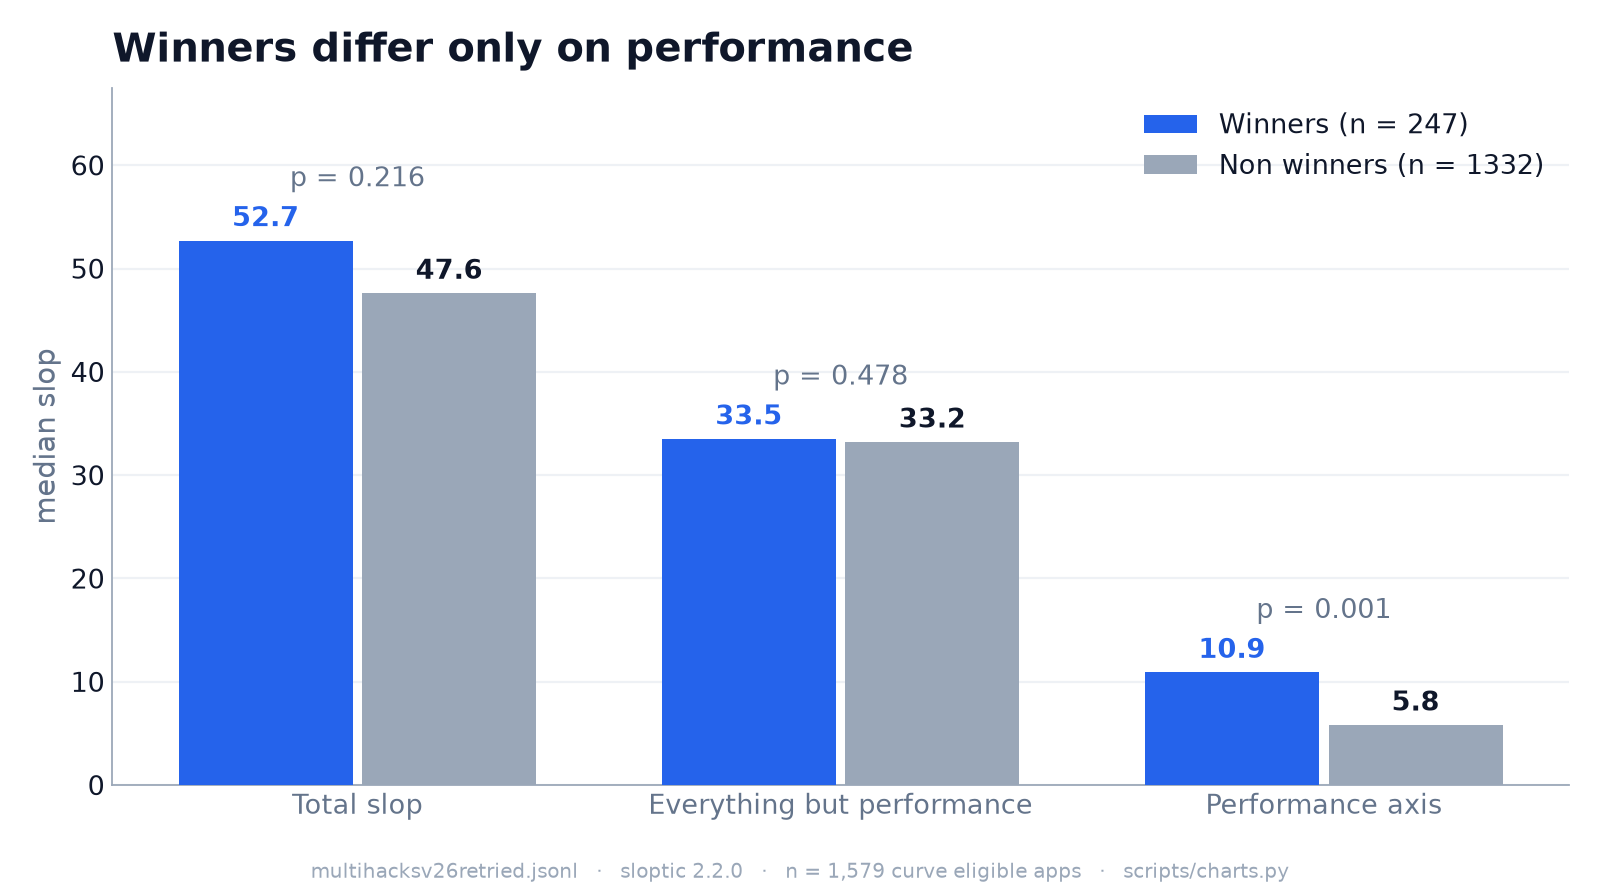
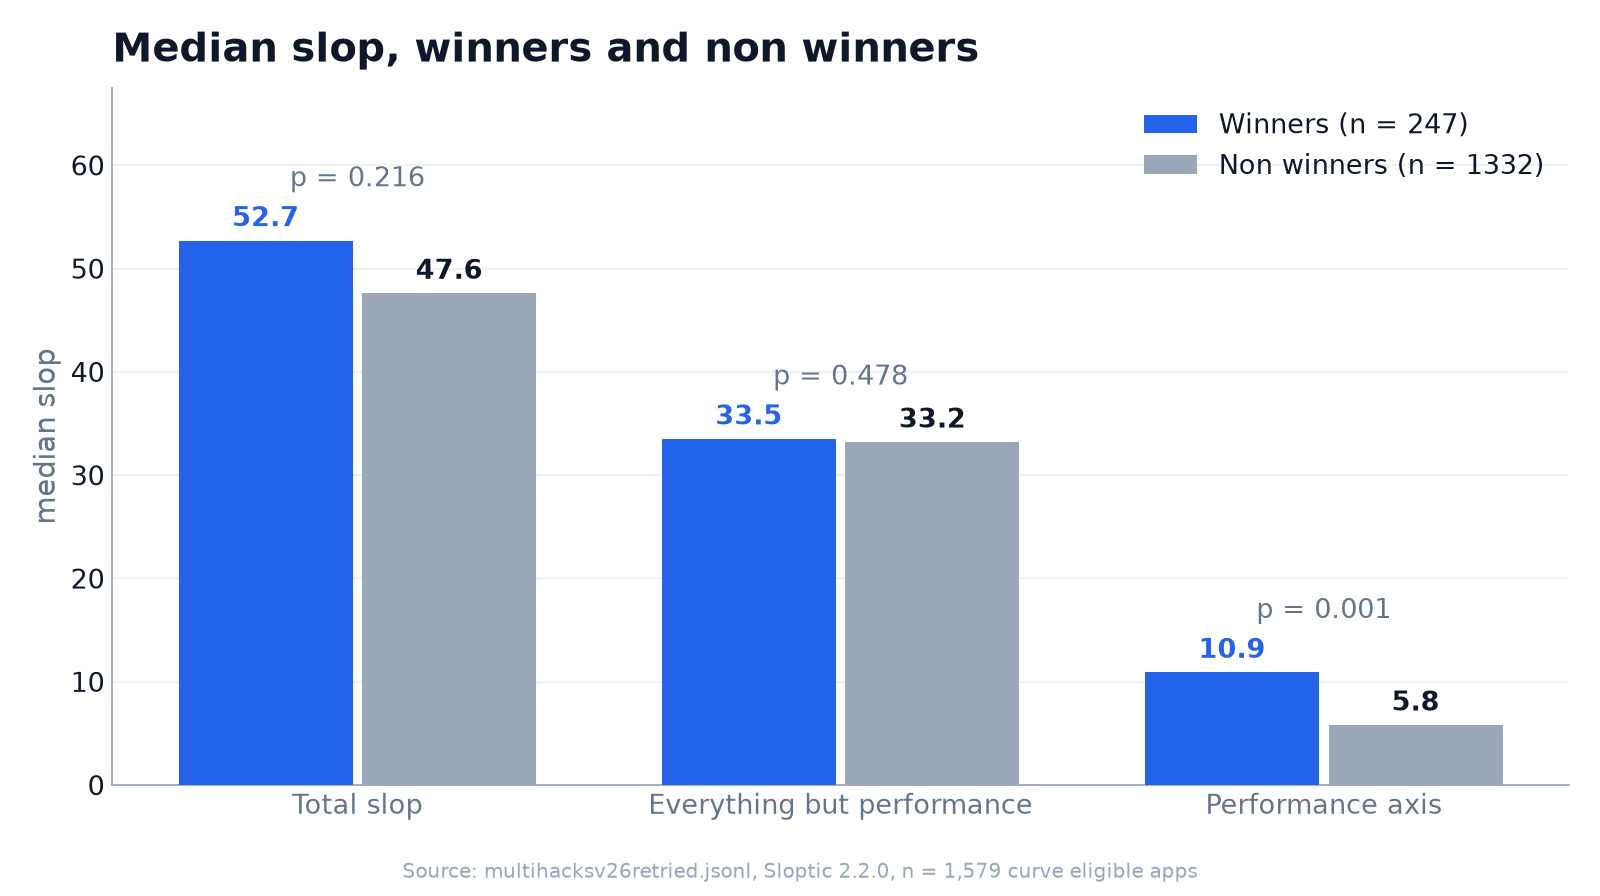
fix(charts): descriptive titles, and no label crosses a line or bar
Titles name what the chart shows instead of stating a conclusion. The Lighthouse median
and green share labels sit clear of the bars and the median line, the distribution's
dashed quartile lines stop below the label row, platform medians move into the axis
labels, axe rule ids read as plain names, and the footer drops the middle dots.

Changed region(s): [[0.0625, 0.0312, 0.625, 0.0938], [0.1875, 0.9688, 0.8125, 1.0]]

diff --git a/scripts/charts.py b/scripts/charts.py
@@ -38,6 +38,12 @@ PROBE_LABEL = {
     "sec-secrets-003": "Google key that reaches Gemini",
 }
 
+AXE_LABEL = {"color-contrast": "Text contrast too low", "button-name": "Button with no name",
+             "meta-viewport": "Zoom disabled", "label": "Form field with no label",
+             "select-name": "Dropdown with no name", "link-name": "Link with no text",
+             "html-has-lang": "No page language", "document-title": "No page title",
+             "scrollable-region-focusable": "Scroll area unreachable by keyboard", "image-alt": "Image with no alt text"}
+
 # the exploitable classes, by the category of the gating finding
 EXPLOIT_CLASS = {"secrets-exposure": "Live credential in the bundle", "backend-exposure": "Open managed backend",
                  "exposure": "Served .git or hidden file", "xss": "Stored XSS",
@@ -75,8 +81,8 @@ class _Ctx:
 
     def finish(self, fig, name):
         fig.tight_layout(rect=(0, 0.05, 1, 1))
-        fig.text(0.5, 0.015, f"{self.run}   ·   sloptic {self.ver}   ·   n = {self.n:,} curve eligible apps   ·   "
-                 f"scripts/charts.py", ha="center", va="bottom", fontsize=9, color=MUTED)
+        fig.text(0.5, 0.015, f"Source: {self.run}, Sloptic {self.ver}, n = {self.n:,} curve eligible apps",
+                 ha="center", va="bottom", fontsize=9, color=MUTED)
         fig.savefig(self.out / f"{name}.png", facecolor="white")
         self.plt.close(fig)
 
@@ -134,7 +140,7 @@ def fig_funnel(ctx, fj):
              "entry challenge (WAF withheld the grade)": "Bot challenge at entry"}
     rows = [("Attempted (live URL on Devpost)", a["attempted"]), ("Graded, curve eligible", a["graded"])]
     rows += [(names.get(k, k), v) for k, v in sorted(dnf.items(), key=lambda x: -x[1])]
-    _hbar(ctx, "fig01_funnel", "Where 2,685 submissions went", [r[0] for r in rows], [r[1] for r in rows],
+    _hbar(ctx, "fig01_funnel", "Submission outcomes", [r[0] for r in rows], [r[1] for r in rows],
           "apps", lambda v: f"{v:,}  ({100 * v / a['attempted']:.0f}%)", highlight=lambda i: i == 1,
           xmax=a["attempted"] * 1.45,
           csv_rows=[[r[0], r[1], round(100 * r[1] / a["attempted"], 1)] for r in rows],
@@ -152,16 +158,18 @@ def fig_distribution(ctx, fj):
     for key, lab, col in [("q1", "Q1", FAINT), ("median", "median", ACCENT), ("q3", "Q3", FAINT),
                           ("p90", "p90", FAINT)]:
         v = d[key]
-        ax.axvline(v, color=col, lw=2.2 if key == "median" else 1.3, ls="-" if key == "median" else (0, (3, 3)),
-                   zorder=4)
-        ax.text(v, top * (1.12 if key == "median" else 1.02), f"{lab} {v:.0f}", color=col, fontsize=12,
-                fontweight="bold", ha="center", va="bottom")
+        med = key == "median"
+        # dashed lines stop below the median label row so no label crosses a line
+        ax.vlines(v, 0, top * (1.1 if med else 1.0), color=col, lw=2.2 if med else 1.3,
+                  linestyles="-" if med else (0, (3, 3)), zorder=4)
+        ax.text(v + (-1.5 if key == "q1" else 1.5), top * (1.12 if med else 1.02), f"{lab} {v:.0f}", color=col,
+                fontsize=12, fontweight="bold", ha="right" if key == "q1" else "left", va="bottom")
     ax.set_ylim(0, top * 1.24)
-    ax.text(248, top * 0.25, f"{tail} app(s) above 250\n(max {d['max']:.0f})", ha="right", fontsize=11,
+    ax.text(248, top * 0.25, f"{tail} {'app' if tail == 1 else 'apps'} above 250\n(max {d['max']:.0f})", ha="right", fontsize=11,
             color=FAINT)
     ax.set_xlabel("slop score, 10 point bins (lower is better)")
     ax.set_ylabel("apps")
-    ax.set_title("Slop is right skewed with a long tail", loc="left", pad=12)
+    ax.set_title("Slop score distribution", loc="left", pad=12)
     _style(ax)
     ctx.finish(fig, "fig02_distribution")
     _write_csv(ctx.out / "fig02_distribution.csv", ["bin_low", "bin_high", "apps"], d["bins"])
@@ -194,7 +202,7 @@ def fig_axes(ctx, fj, graded):
     a2.set_xticks(range(1, len(order) + 1))
     a2.set_xticklabels([AXIS_LABEL[a] for a in order], fontsize=12)
     a2.set_ylabel("axis subtotal per app")
-    a2.set_title("Per app subtotal (outliers hidden)", loc="left", pad=10, fontsize=16)
+    a2.set_title("Subtotal per app, outliers hidden", loc="left", pad=10, fontsize=16)
     _style(a2)
     ctx.finish(fig, "fig03_axes")
     _write_csv(ctx.out / "fig03_axes.csv", ["axis", "share_pct", "median", "q1", "q3", "mean", "max"],
@@ -221,7 +229,7 @@ def fig_axis_corr(ctx, graded, ss):
             ax.text(j, i, f"{m[i][j]:.2f}", ha="center", va="center", fontsize=14, fontweight="bold",
                     color="white" if m[i][j] > 0.6 else INK)
     fig.colorbar(im, ax=ax, fraction=0.046, pad=0.04)
-    ax.set_title("The axes barely correlate (Spearman ρ)", loc="left", pad=12, fontsize=17)
+    ax.set_title("Axis correlation, Spearman ρ", loc="left", pad=12, fontsize=17)
     ax.tick_params(length=0)
     for s in ax.spines.values():
         s.set_visible(False)
@@ -233,7 +241,7 @@ def fig_axis_corr(ctx, graded, ss):
 # ---- fig 5: fire frequency -----------------------------------------------------------------------------
 def fig_fire_frequency(ctx, fj, top=14):
     ff = fj["fire_frequency"][:top]
-    _hbar(ctx, "fig05_fire_frequency", "What fires, and how often",
+    _hbar(ctx, "fig05_fire_frequency", "Most frequent findings",
           [PROBE_LABEL.get(f["probe_id"], f["probe_id"]) for f in ff], [f["pct"] for f in ff],
           "% of graded apps", lambda v: f"{v:.0f}%" if v >= 10 else f"{v:.1f}%",
           highlight=lambda i: ff[i]["probe_id"].startswith("sec-headers"), xmax=112, size=(10, 7),
@@ -248,7 +256,7 @@ def fig_worst_finding(ctx, graded):
     worst = [max((f.get("penalty") or 0 for f in r.get("findings") or [] if _scored(f)), default=0) for r in graded]
     counts = [sum(1 for w in worst if lo < w <= hi) for _, lo, hi in bands]
     n = len(graded)
-    _hbar(ctx, "fig06_worst_finding", "Each app's single worst finding", [b[0] for b in bands], counts,
+    _hbar(ctx, "fig06_worst_finding", "Worst finding per app", [b[0] for b in bands], counts,
           "apps (each app counted once, in its worst band)", lambda v: f"{v:,}  ({100 * v / n:.0f}%)",
           highlight=lambda i: i == 4,
           csv_rows=[[b[0], c, round(100 * c / n, 1)] for b, c in zip(bands, counts)],
@@ -268,7 +276,7 @@ def fig_exploitable(ctx, graded):
             for c in cats:
                 per[EXPLOIT_CLASS.get(c, c)] += 1
     rows = per.most_common()
-    _hbar(ctx, "fig07_exploitable", f"The {apps} exploitable apps, by class", [r[0] for r in rows],
+    _hbar(ctx, "fig07_exploitable", f"Exploitable apps by class (n = {apps})", [r[0] for r in rows],
           [r[1] for r in rows], "apps (an app with two classes counts in both)", lambda v: f"{v}",
           highlight=lambda i: i < 2, csv_rows=[[r[0], r[1]] for r in rows] + [["distinct_apps", apps]],
           csv_header=["class", "apps"])
@@ -305,7 +313,7 @@ def fig_winners(ctx, graded, ss):
     ax.set_xticklabels([r[0] for r in rows])
     ax.set_ylabel("median slop")
     ax.legend(frameon=False, loc="upper right", fontsize=12)
-    ax.set_title("Winners differ only on performance", loc="left", pad=12)
+    ax.set_title("Median slop, winners and non winners", loc="left", pad=12)
     _style(ax)
     ctx.finish(fig, "fig08_winners")
     _write_csv(ctx.out / "fig08_winners.csv", ["component", "winner_median", "non_winner_median",
@@ -327,10 +335,7 @@ def fig_stack(ctx, graded, min_n=10):
     for w in bp["whiskers"] + bp["caps"]:
         w.set(color=MUTED, linewidth=1.3)
     ax.set_yticks(range(1, len(keep) + 1))
-    ax.set_yticklabels([f"{k}  (n = {len(v)})" for k, v in keep], fontsize=12)
-    for i, (_, v) in enumerate(keep, start=1):
-        ax.text(statistics.median(v), i + 0.36, f"{statistics.median(v):.0f}", ha="center", fontsize=11,
-                color=ACCENT, fontweight="bold")
+    ax.set_yticklabels([f"{k}  (n = {len(v)}, median {statistics.median(v):.0f})" for k, v in keep], fontsize=12)
     ax.set_xlabel("slop score (outliers hidden)")
     ax.set_title("Slop by host platform", loc="left", pad=12)
     _style(ax, "x")
@@ -353,13 +358,14 @@ def fig_lighthouse(ctx, fj, graded):
     ax.bar([lo + 2.5 for lo in edges[:-1]], counts, width=4.6, color=colors, zorder=3)
     top = max(counts)
     ax.axvline(o["median"], color=INK, lw=2, zorder=4)
-    ax.text(o["median"], top * 1.04, f"median {o['median']}", ha="center", fontsize=12, fontweight="bold")
-    ax.text(97, top * 0.8, f"{o['pct_green']:.0f}% green\n(90+)", ha="center", fontsize=12, color="#16a34a",
+    ax.text(o["median"] - 1, top * 1.06, f"median {o['median']}", ha="right", va="bottom", fontsize=12,
             fontweight="bold")
-    ax.set_ylim(0, top * 1.16)
+    ax.text(95, top * 1.06, f"{o['pct_green']:.0f}% green (90+)", ha="center", va="bottom", fontsize=12,
+            color="#16a34a", fontweight="bold")
+    ax.set_ylim(0, top * 1.2)
     ax.set_xlabel("Lighthouse performance score (mobile, simulated throttling)")
     ax.set_ylabel("apps")
-    ax.set_title("Most apps land orange", loc="left", pad=12)
+    ax.set_title("Lighthouse performance scores", loc="left", pad=12)
     _style(ax)
     ctx.finish(fig, "fig10_lighthouse")
     _write_csv(ctx.out / "fig10_lighthouse.csv", ["bin_low", "bin_high", "apps"],
@@ -381,7 +387,7 @@ def fig_a11y(ctx, graded, top=8):
             fired += 1
             rules.update(seen)
     rows = rules.most_common(top)
-    _hbar(ctx, "fig11_a11y_rules", "Accessibility is mostly a contrast problem", [r[0] for r in rows],
+    _hbar(ctx, "fig11_a11y_rules", "Accessibility violations by axe rule", [AXE_LABEL.get(r[0], r[0]) for r in rows],
           [100 * r[1] / fired for r in rows], f"% of the {fired:,} apps with an axe finding",
           lambda v: f"{v:.0f}%", highlight=lambda i: i == 0, xmax=100,
           csv_rows=[[r[0], r[1], round(100 * r[1] / fired, 1)] for r in rows],
@@ -403,7 +409,7 @@ def fig_reach(ctx, fj):
     fig, (a1, a2) = ctx.plt.subplots(1, 2, figsize=(13, 5.4))
     for ax, rows, lab, total, hi, title in [
             (a1, [(names[k], v) for k, v in arows], "apps", au["n"],
-             lambda k: "drivable" in k, "Auth shape (partition)"),
+             lambda k: "drivable" in k, "Auth shape"),
             (a2, [(tnames[k], v) for k, v in brows], "apps with traffic, tiers overlap", bt["n"],
              lambda k: k == "Own backend", "Backend tier")]:
         y = list(range(len(rows)))
